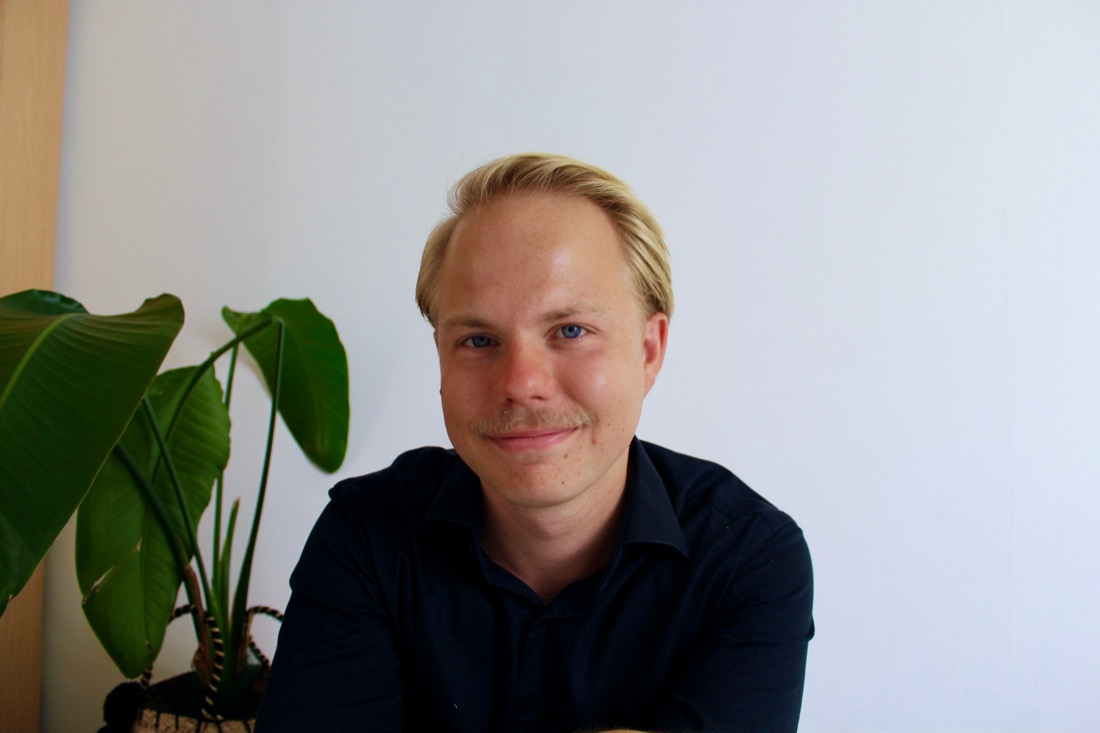
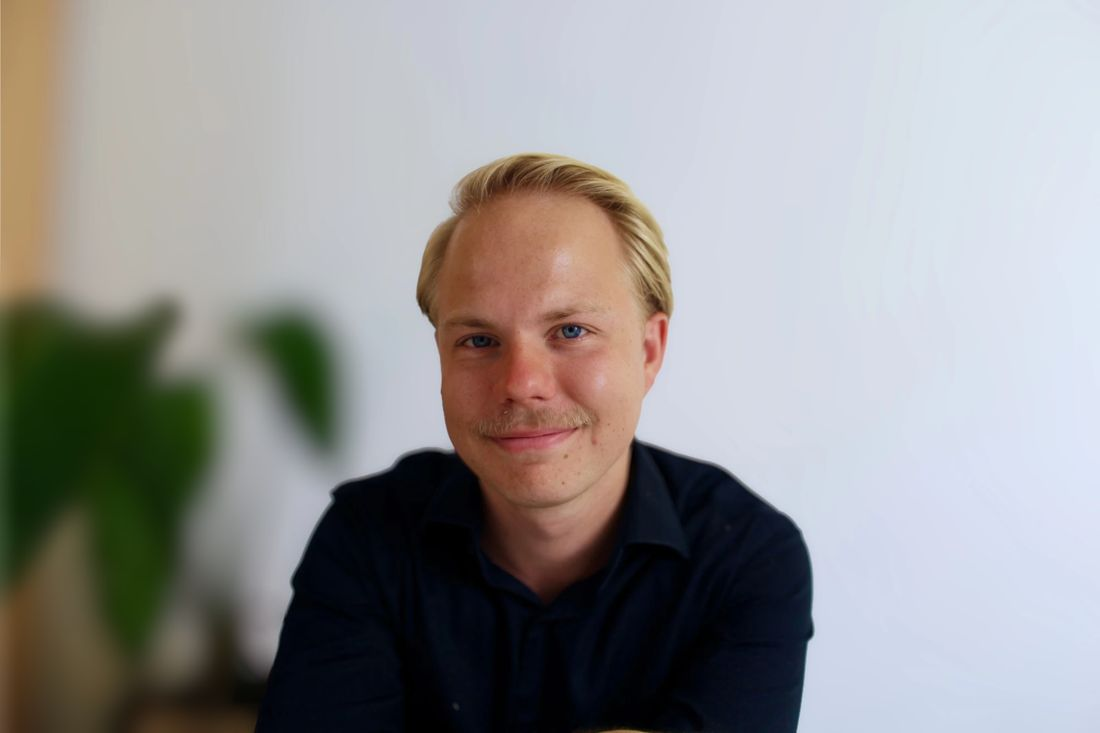
Hero text, Om mig wording, and blurred-background video-call photo
- Hero lede: 'starkt forskningsstöd vid de flesta psykologiska
  tillstånd' and 'med flexibla tider och utan rigida ramar' (no
  waiting-time promise)
- Om mig: 'jobbat inom LSS'
- Replace the video-call photo with the version with a softly blurred
  background and an evenly blurred foreground leaf

diff --git a/index.html b/index.html
@@ -668,7 +668,7 @@
     <div class="hero-content">
       <p class="hero-kicker">Psykoterapi över videosamtal</p>
       <h1>Ivan<br>Wahlund</h1>
-      <p class="lede">Nästan alla hamnar någon gång i en livssituation de har svårt att hantera. Ibland räcker de egna resurserna, men ibland behövs stöd för att navigera vidare och växa som människa. Kognitiv beteendeterapi har starkt forskningsstöd och är hjälpsam även vid livskriser, ensamhetskänslor, relationsproblem och sviktande självkänsla. Jag erbjuder terapi online, utan väntetider eller rigida ramar.</p>
+      <p class="lede">Nästan alla hamnar någon gång i en livssituation de har svårt att hantera. Ibland räcker de egna resurserna, men ibland behövs stöd för att navigera vidare och växa som människa. Kognitiv beteendeterapi har starkt forskningsstöd vid de flesta psykologiska tillstånd och är hjälpsam även vid livskriser, ensamhetskänslor, relationsproblem och sviktande självkänsla. Jag erbjuder terapi online, med flexibla tider och utan rigida ramar.</p>
       <div class="btn-row">
         <!-- KADDIO-INTEGRATION: byt href nedan mot din bokningslänk från Kaddio,
              t.ex. https://boka.kaddio.com/ivanwahlund, eller ersätt <a> med
@@ -700,7 +700,7 @@
     <div class="wrap">
       <div class="prose">
           <h2>Om mig</h2>
-          <p>Jag är legitimerad psykolog som har gått psykologprogrammet på Karolinska Institutet och jag har arbetat både på BUP och inom specialistpsykiatrin för vuxna. Utöver mitt kliniska arbete har jag även jobbat på LSS-boende och med psykologisk forskning på KI. De huvudprinciper som alltid har präglat mina psykologiska behandlingar är värme, målmedvetenhet och forskningsbaserade komponenter. Det är min bestämda uppfattning att terapi som innehåller dessa delar kan hjälpa alla som önskar uppnå meningsfull förändring.</p>
+          <p>Jag är legitimerad psykolog som har gått psykologprogrammet på Karolinska Institutet och jag har arbetat både på BUP och inom specialistpsykiatrin för vuxna. Utöver mitt kliniska arbete har jag även jobbat inom LSS och med psykologisk forskning på KI. De huvudprinciper som alltid har präglat mina psykologiska behandlingar är värme, målmedvetenhet och forskningsbaserade komponenter. Det är min bestämda uppfattning att terapi som innehåller dessa delar kan hjälpa alla som önskar uppnå meningsfull förändring.</p>
           <p>Mitt terapeutiska hantverk är inte fäst vid en specifik mall, utan skräddarsys efter ditt behov. Jag tar hänsyn till olika delar som påverkar ditt mående och tillsammans formulerar vi en karta som kan förklara din situation och kan bana väg för terapeutisk förändring.</p>
       </div>
     </div>
